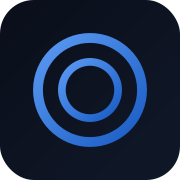
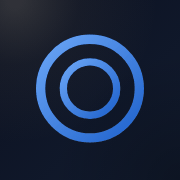
style+perf: スマホの横はみ出し解消・一覧の軽量化・ホーム画面アイコンと名前（4サイト同一）
- ヒーロー用の金の粒・光・中央寄せの罫をトップのヒーローだけに限定。/membership で幅540pxの光が
  スマホの画面幅を押し広げ、ヘッダー右端のテーマ切替・メニューが画面外へ出ていた（main に overflow-x:clip も）
- 記事行の「→」を絶対配置に。題名が行幅いっぱいのとき見えない矢印だけが次の行に落ちて空行ができていた
- /membership・/tags の行をインライン style からクラスへ（HTML と RSC の二重持ちを削減。CL 実測 1.73MB→1.01MB・749KB→283KB）
- トップの見出しで「使いこなす。」を途中で折り返さない（375px で「す。」だけが3行目に落ちていた）
- ホーム画面に追加したときの名前を apple-mobile-web-app-title / manifest で指定（従来は各ページの <title> が付いていた）
- apple-touch-icon / PWA アイコンを角まで塗った正方形に作り直し（maskable 追加・図形の中心と大きさを揃え、左上に淡いシャンパンゴールドの光）
- gtag.js の読み込みを load 後へ（計測の呼び出しは従来どおり即時に積む）

Claude-Session: https://claude.ai/code/session_01EveTFFqsYuRWH2eeUddaZd

diff --git a/src/app/globals.css b/src/app/globals.css
@@ -535,6 +535,7 @@ html { overflow-x: clip; }
   main a[style*="border-bottom"] > h3::after {
     content: "→";
     display: inline-block;
+    position: absolute; /* 2026-10-17: 題名が行幅いっぱいのとき、見えない矢印だけが次の行へ落ちて題名と説明のあいだに空行ができていた */
     margin-left: 10px;
     color: var(--accent-coral);
     opacity: 0;
@@ -757,7 +758,7 @@ main h1::after {
   transform-origin: left;
   animation: ruleDraw 1s var(--ease-out) 0.35s backwards;
 }
-main > div > section:first-child h1::after { margin-inline: auto; }
+main > div > section:first-child:has(.animate-hero-glow) h1::after { margin-inline: auto; }
 main h2 { position: relative; }
 main h2::before {
   content: "";
@@ -807,8 +808,8 @@ footer::before {
 [data-fx="brand"]:hover > span:nth-child(2) { color: var(--gold) !important; }
 
 /* ヒーロー: 金の細かな粒がゆっくり立ちのぼり、背後に金の光がにじむ */
-main > div > section:first-child { position: relative; }
-main > div > section:first-child::before {
+main > div > section:first-child:has(.animate-hero-glow) { position: relative; }
+main > div > section:first-child:has(.animate-hero-glow)::before {
   content: "";
   position: absolute;
   inset: 0;
@@ -829,8 +830,8 @@ main > div > section:first-child::before {
   mask-image: linear-gradient(transparent, #000 22%, #000 78%, transparent);
   animation: dustDrift 26s linear infinite, dustTwinkle 5s ease-in-out infinite alternate;
 }
-[data-theme="light"] main > div > section:first-child::before { filter: saturate(1.2); opacity: 0.5; }
-main > div > section:first-child::after {
+[data-theme="light"] main > div > section:first-child:has(.animate-hero-glow)::before { filter: saturate(1.2); opacity: 0.5; }
+main > div > section:first-child:has(.animate-hero-glow)::after {
   content: "";
   position: absolute;
   left: 50%;
@@ -846,8 +847,8 @@ main > div > section:first-child::after {
 }
 
 /* ヒーロー（先頭の節）が画面外のあいだは、金の粒・光・文字の流れを止める（見た目は同じ・読んでいる間の再描画を無くす。属性は Motion.tsx） */
-html[data-top-off] main > div > section:first-child::before,
-html[data-top-off] main > div > section:first-child::after,
+html[data-top-off] main > div > section:first-child:has(.animate-hero-glow)::before,
+html[data-top-off] main > div > section:first-child:has(.animate-hero-glow)::after,
 html[data-top-off] main h1 > span:is([style*="font-weight:700"], [style*="font-weight: 700"]),
 html[data-top-off] .animate-hero-glow { animation-play-state: paused; }
 
@@ -952,7 +953,7 @@ html[data-nav] main > * { animation: pageIn 0.55s var(--ease-out) backwards; }
 @media (prefers-reduced-motion: reduce) {
   main h1 > span:is([style*="font-weight:700"], [style*="font-weight: 700"]),
   main h1::after,
-  main > div > section:first-child::before, main > div > section:first-child::after,
+  main > div > section:first-child:has(.animate-hero-glow)::before, main > div > section:first-child:has(.animate-hero-glow)::after,
   [data-pop], html[data-nav] main > *, header::after, main > div > section:not(:first-child)::before { animation: none !important; }
   .cursor-glow { display: none; }
 }
@@ -1086,3 +1087,49 @@ main a[style*="border-bottom"]:has(> h3)[data-rv-in]:not([data-rv-fast])::after 
 @media (max-width: 767px) {
   header [data-fx="brand"] > span:first-child { top: -1px !important; }
 }
+
+/* ── 2026-10-17 ブラッシュアップ（4 サイト同一）── */
+
+/* ヒーロー用の金の粒・光・中央寄せの罫は、トップのヒーローだけに限定（:has(.animate-hero-glow)）。
+   以前は各ページの先頭の節すべてに掛かり、/membership では幅 540px の光がスマホの画面幅を押し広げてヘッダー右端のメニュー・テーマ切替が画面外へ出ていた。
+   左寄せの見出しの下の罫が中央に浮く・課金カードの上に粒が散る、もこれが原因。保険として main の横はみ出しも切る（clip は sticky を壊さない） */
+main { overflow-x: clip; }
+
+/* 一覧の行（/membership・タグ一覧など数百件並ぶページ）。インライン style をやめてクラスに＝HTML と RSC ペイロードの両方が軽くなる。
+   border-bottom だけは各行のインラインに残す（行のホバー・出現の演出が [style*="border-bottom"] で行を見分けている） */
+.mono { font-family: var(--font-dm-mono), 'DM Mono', monospace; }
+.ar { display: block; padding: 24px 0; text-decoration: none; transition: padding-left 0.3s; }
+.ar-meta { display: flex; align-items: center; gap: 12px; margin-bottom: 8px; flex-wrap: wrap; }
+.ar-lock {
+  font-size: 10px;
+  letter-spacing: 0.1em;
+  padding: 2px 8px;
+  border-radius: 4px;
+  background: color-mix(in srgb, var(--lock-accent, var(--accent-coral)) 12%, transparent);
+  color: var(--lock-accent, var(--accent-coral));
+}
+.ar-cat { font-size: 11px; letter-spacing: 0.06em; }
+.ar-sep { font-size: 11px; color: var(--text-faint); }
+.ar-title { font-size: clamp(16px, 2.5vw, 19px); font-weight: 500; color: var(--text-secondary); margin-bottom: 6px; line-height: 1.5; }
+.ar-desc { font-size: 13px; color: var(--text-dim); line-height: 1.6; max-width: 680px; }
+.lvl { font-size: 11px; padding: 2px 8px; border-radius: 3px; letter-spacing: 0.03em; --lv: var(--accent-gold); background: color-mix(in srgb, var(--lv) 12%, transparent); color: var(--lv); }
+.lvl-b { --lv: var(--accent-green); }
+.lvl-a { --lv: var(--accent-coral); }
+
+/* タグ一覧（雲と索引） */
+.tc { color: var(--text-secondary); text-decoration: none; transition: all 0.2s; padding: 4px 8px; border-radius: 4px; white-space: nowrap; }
+.tc > sup { font-size: 10px; color: var(--text-dim); margin-left: 2px; }
+.ti {
+  display: flex;
+  justify-content: space-between;
+  align-items: center;
+  padding: 10px 14px;
+  border-radius: 6px;
+  border: 1px solid var(--border-subtle);
+  text-decoration: none;
+  font-size: 13px;
+  color: var(--text-secondary);
+  transition: all 0.2s;
+}
+.ti > span:first-child { overflow: hidden; text-overflow: ellipsis; white-space: nowrap; }
+.ti > span:last-child { font-size: 11px; color: var(--text-dim); margin-left: 8px; flex-shrink: 0; }

diff --git a/src/app/[locale]/membership/page.tsx b/src/app/[locale]/membership/page.tsx
@@ -202,49 +202,28 @@ export default async function MembershipPage({ params }: Props) {
         ) : (
           <div>
             {premiumArticles.map((article) => (
+              // 行の見た目は globals.css の .ar 系クラス（2026-10-17: 800 行超のインライン style が HTML と RSC で二重になり 1.7〜2.0MB あった）。
+              // border-bottom だけはインラインに残す（行のホバー・出現の演出が [style*="border-bottom"] で行を見分けている）
               <a
                 key={`${article.category}/${article.slug}`}
                 href={`${prefix}/articles/${article.category}/${article.slug}`}
-                style={{
-                  display: "block",
-                  padding: "24px 0",
-                  borderBottom: "1px solid var(--border-subtle)",
-                  textDecoration: "none",
-                  transition: "padding-left 0.3s",
-                }}
+                className="ar"
+                style={{ borderBottom: "1px solid var(--border-subtle)" }}
               >
-                <div style={{ display: "flex", alignItems: "center", gap: 12, marginBottom: 8, flexWrap: "wrap" }}>
-                  <span
-                    style={{
-                      fontSize: 10,
-                      fontFamily: "var(--font-dm-mono), 'DM Mono', monospace",
-                      letterSpacing: "0.1em",
-                      padding: "2px 8px",
-                      borderRadius: 4,
-                      background: "color-mix(in srgb, var(--accent-coral) 12%, transparent)",
-                      color: "var(--accent-coral)",
-                    }}
-                  >
-                    {t.locked}
-                  </span>
-                  <span style={{ fontSize: 11, color: catColor(article.category), fontFamily: "var(--font-dm-mono), 'DM Mono', monospace", letterSpacing: "0.06em" }}>
+                <div className="ar-meta">
+                  <span className="ar-lock mono">{t.locked}</span>
+                  <span className="ar-cat mono" style={{ color: catColor(article.category) }}>
                     {catIcon(article.category)} {CATEGORY_LABELS[locale]?.[article.category] || article.category}
                   </span>
-                  <span style={{ fontSize: 11, color: "var(--text-faint)" }}>/</span>
-                  <span style={{ fontSize: 11, color: "var(--text-faint)", fontFamily: "var(--font-dm-mono), 'DM Mono', monospace" }}>
-                    {article.date?.split("T")[0]}
-                  </span>
+                  <span className="ar-sep">/</span>
+                  <span className="ar-sep mono">{article.date?.split("T")[0]}</span>
                   <LevelBadge
                     level={article.level}
                     label={LEVEL_LABELS[locale]?.[article.level] || article.level}
                   />
                 </div>
-                <h3 style={{ fontSize: "clamp(16px, 2.5vw, 19px)", fontWeight: 500, color: "var(--text-secondary)", marginBottom: 6, lineHeight: 1.5 }}>
-                  {article.title}
-                </h3>
-                <p style={{ fontSize: 13, color: "var(--text-dim)", lineHeight: 1.6, maxWidth: 680 }}>
-                  {article.description}
-                </p>
+                <h3 className="ar-title">{article.title}</h3>
+                <p className="ar-desc">{article.description}</p>
               </a>
             ))}
           </div>

diff --git a/src/app/[locale]/tags/page.tsx b/src/app/[locale]/tags/page.tsx
@@ -95,19 +95,11 @@ export default async function TagsPage({ params }: Props) {
             <a
               key={tag}
               href={`${prefix}/tag/${encodeURIComponent(tag)}`}
-              style={{
-                fontSize: size,
-                color: "var(--text-secondary)",
-                textDecoration: "none",
-                opacity,
-                transition: "all 0.2s",
-                padding: "4px 8px",
-                borderRadius: 4,
-                whiteSpace: "nowrap",
-              }}
+              className="tc"
+              style={{ fontSize: +size.toFixed(1), opacity: +opacity.toFixed(2) }}
             >
               {tag}
-              <sup style={{ fontSize: 10, color: "var(--text-dim)", marginLeft: 2 }}>{count}</sup>
+              <sup>{count}</sup>
             </a>
           );
         })}
@@ -120,34 +112,9 @@ export default async function TagsPage({ params }: Props) {
         </h2>
         <div style={{ display: "grid", gridTemplateColumns: "repeat(auto-fill, minmax(220px, 1fr))", gap: 8 }}>
           {tagCounts.map(({ tag, count }) => (
-            <a
-              key={tag}
-              href={`${prefix}/tag/${encodeURIComponent(tag)}`}
-              style={{
-                display: "flex",
-                justifyContent: "space-between",
-                alignItems: "center",
-                padding: "10px 14px",
-                borderRadius: 6,
-                border: "1px solid var(--border-subtle)",
-                textDecoration: "none",
-                fontSize: 13,
-                color: "var(--text-secondary)",
-                transition: "all 0.2s",
-              }}
-            >
-              <span style={{ overflow: "hidden", textOverflow: "ellipsis", whiteSpace: "nowrap" }}>{tag}</span>
-              <span
-                style={{
-                  fontSize: 11,
-                  fontFamily: "var(--font-dm-mono), 'DM Mono', monospace",
-                  color: "var(--text-dim)",
-                  marginLeft: 8,
-                  flexShrink: 0,
-                }}
-              >
-                {count}
-              </span>
+            <a key={tag} href={`${prefix}/tag/${encodeURIComponent(tag)}`} className="ti">
+              <span>{tag}</span>
+              <span className="mono">{count}</span>
             </a>
           ))}
         </div>

diff --git a/src/components/ui/LevelBadge.tsx b/src/components/ui/LevelBadge.tsx
@@ -1,10 +1,11 @@
 "use client";
 
-const LEVEL_COLORS: Record<string, { bg: string; text: string }> = {
-  beginner: { bg: "color-mix(in srgb, var(--accent-green) 12%, transparent)", text: "var(--accent-green)" },
-  intermediate: { bg: "color-mix(in srgb, var(--accent-gold) 12%, transparent)", text: "var(--accent-gold)" },
-  advanced: { bg: "color-mix(in srgb, var(--accent-coral) 12%, transparent)", text: "var(--accent-coral)" },
-  "intermediate-advanced": { bg: "color-mix(in srgb, var(--accent-gold) 12%, transparent)", text: "var(--accent-gold)" },
+// 色は globals.css の .lvl 系クラス（2026-10-17: 一覧で数百個並ぶため、インライン style をやめて HTML と RSC を軽く）
+const LEVEL_CLASS: Record<string, string> = {
+  beginner: "lvl-b",
+  intermediate: "lvl-i",
+  advanced: "lvl-a",
+  "intermediate-advanced": "lvl-i",
 };
 
 interface LevelBadgeProps {
@@ -13,20 +14,5 @@ interface LevelBadgeProps {
 }
 
 export function LevelBadge({ level, label }: LevelBadgeProps) {
-  const colors = LEVEL_COLORS[level] || LEVEL_COLORS.intermediate;
-  return (
-    <span
-      style={{
-        fontSize: 11,
-        padding: "2px 8px",
-        borderRadius: 3,
-        background: colors.bg,
-        color: colors.text,
-        fontFamily: "var(--font-dm-mono), 'DM Mono', monospace",
-        letterSpacing: "0.03em",
-      }}
-    >
-      {label}
-    </span>
-  );
+  return <span className={`lvl mono ${LEVEL_CLASS[level] || "lvl-i"}`}>{label}</span>;
 }

diff --git a/src/app/[locale]/layout.tsx b/src/app/[locale]/layout.tsx
@@ -59,9 +59,8 @@ export default async function LocaleLayout({
           }}
         />
         <script dangerouslySetInnerHTML={{ __html: themeScript }} />
-        {/* Google Analytics — loaded directly without consent gate (not required under Japanese law) */}
-        <script async src="https://www.googletagmanager.com/gtag/js?id=G-CJWM68JK57" />
-        <script dangerouslySetInnerHTML={{ __html: `window.dataLayer=window.dataLayer||[];function gtag(){dataLayer.push(arguments)}gtag('js',new Date());gtag('config','G-CJWM68JK57')` }} />
+        {/* Google Analytics — 計測の呼び出しはすぐ積み、gtag.js（約 150KB）の読み込みだけ load 後に回す（2026-10-17・初回描画と操作の応答を優先） */}
+        <script dangerouslySetInnerHTML={{ __html: `window.dataLayer=window.dataLayer||[];function gtag(){dataLayer.push(arguments)}gtag('js',new Date());gtag('config','G-CJWM68JK57');(function(){function l(){var s=document.createElement('script');s.async=true;s.src='https://www.googletagmanager.com/gtag/js?id=G-CJWM68JK57';document.head.appendChild(s)}if(document.readyState==='complete')setTimeout(l,0);else addEventListener('load',function(){setTimeout(l,0)},{once:true})})()` }} />
         <link rel="alternate" type="application/rss+xml" title="Gemini Lab RSS" href={locale === "ja" ? "/feed.xml" : "/en/feed.xml"} />
       </head>
       <body>

diff --git a/src/app/layout.tsx b/src/app/layout.tsx
@@ -43,10 +43,16 @@ export const metadata: Metadata = {
       { url: "/favicon-16.png", sizes: "16x16", type: "image/png" },
       { url: "/icon.svg", type: "image/svg+xml" },
     ],
+    // 2026-10-17: 角まで塗った正方形（iOS が自分で角を丸める）。差し替え時は ?v= を上げる（7 日キャッシュ）
     apple: [
-      { url: "/apple-touch-icon.png", sizes: "180x180" },
+      { url: "/apple-touch-icon.png?v=2", sizes: "180x180" },
     ],
   },
+  // ホーム画面に追加したときの名前（無いと iOS はそのページの <title> を使い、記事の題名や「Gemini Lab — …」が途中で切れて付いていた）
+  manifest: "/manifest.json",
+  applicationName: "Gemini Lab",
+  // capable: false を明示（省略すると Next が mobile-web-app-capable=yes を出し、ホーム画面から開くと戻るボタンの無い全画面になる）
+  appleWebApp: { title: "Gemini Lab", capable: false },
   robots: {
     index: true,
     follow: true,

diff --git a/src/app/[locale]/HomeClient.tsx b/src/app/[locale]/HomeClient.tsx
@@ -106,7 +106,8 @@ export default function HomeClient({ articles, counts, locale }: HomeClientProps
             {t("hero.title1")}
             <br />
             <span style={{ fontWeight: 700 }}>{t("hero.title2")}</span>
-            {locale !== "ja" && " "}{t("hero.title3")}
+            {/* 日本語は「使いこなす。」の途中で折り返さない（375px で「す。」だけが 3 行目に落ちていた・2026-10-17） */}
+            {locale === "ja" ? <span className="seg">{t("hero.title3")}</span> : <>{" "}{t("hero.title3")}</>}
           </h1>
 
           <p style={{ fontSize: "clamp(14px, 2vw, 17px)", color: "var(--text-muted)", maxWidth: 520, margin: "0 auto 48px", lineHeight: 1.8, fontWeight: 300, whiteSpace: "pre-line" }}>
